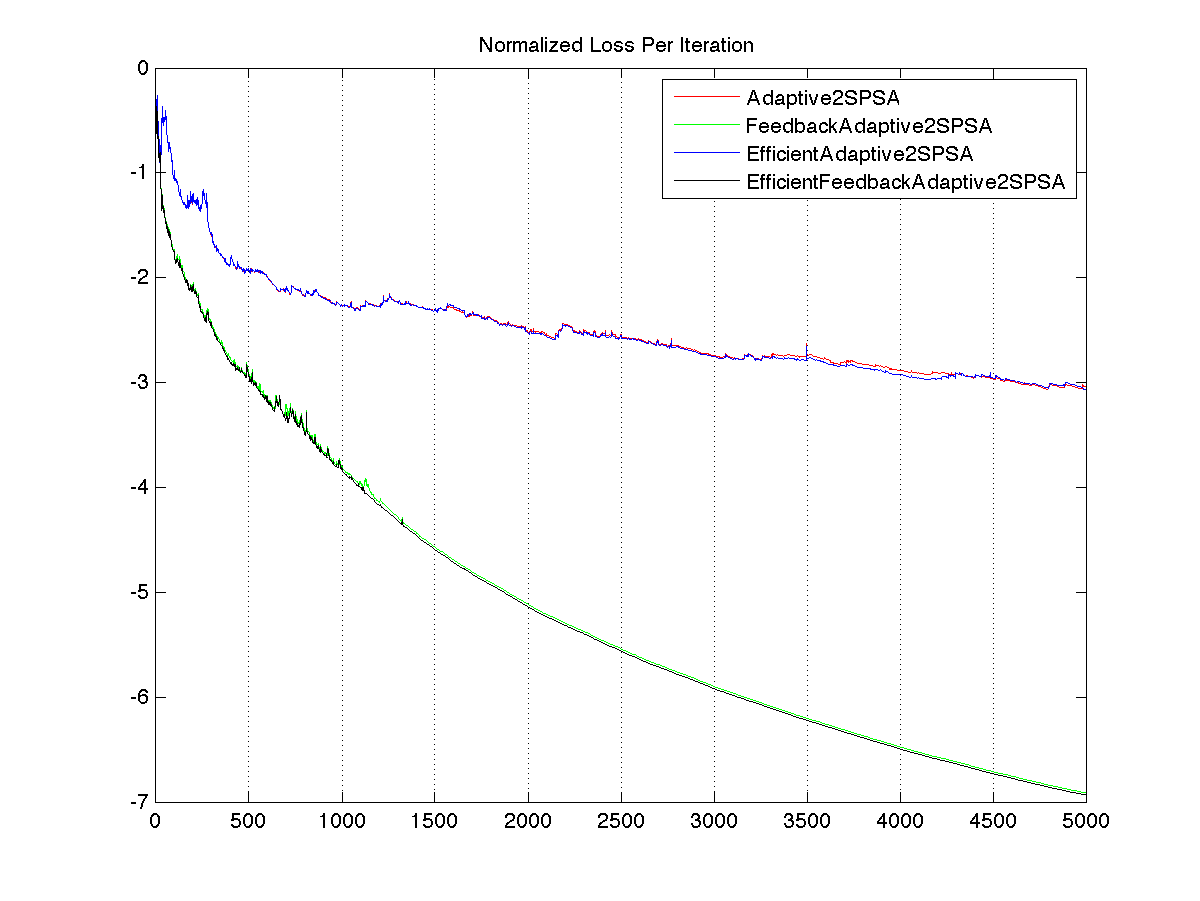
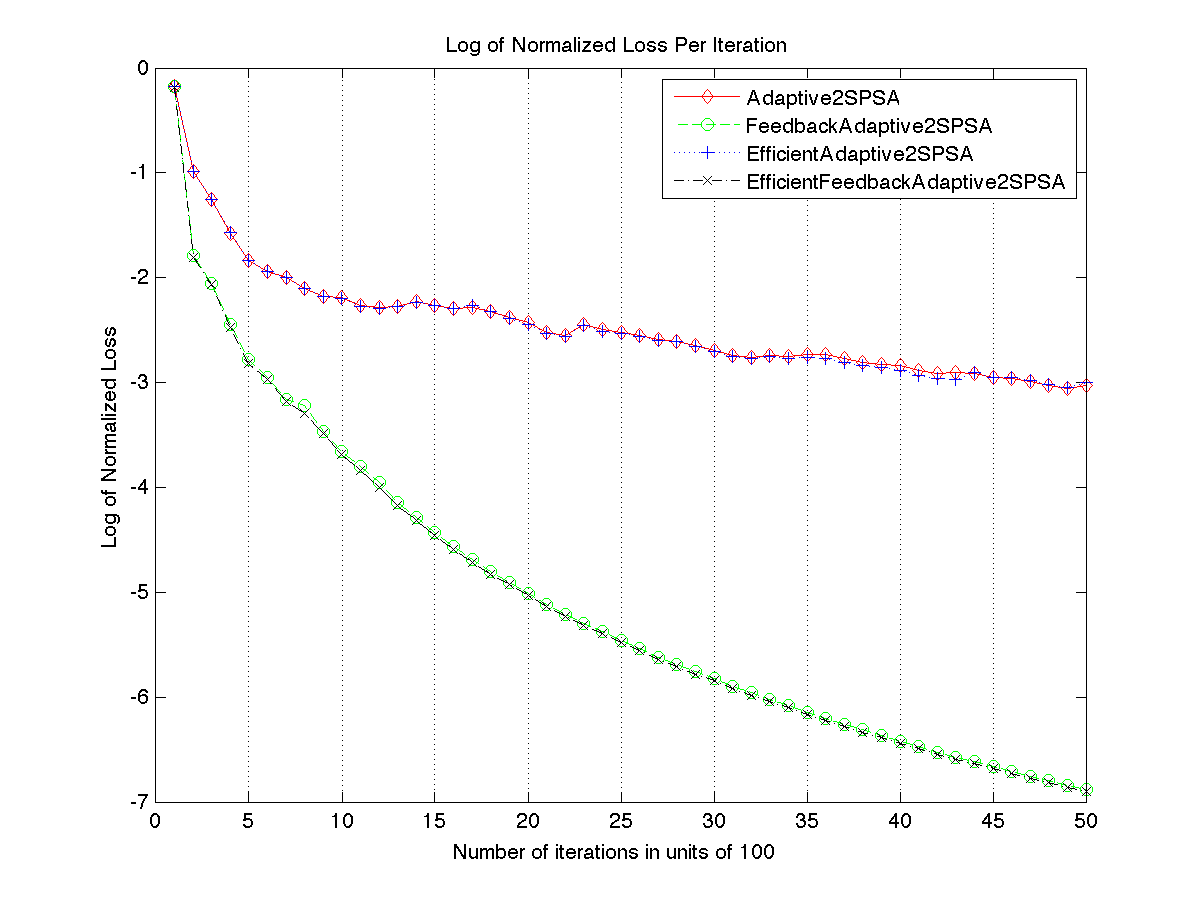
Update plots.

diff --git a/src/analyze_runs.m b/src/analyze_runs.m
@@ -37,7 +37,7 @@ algorithms = {'Adaptive2SPSA', 'FeedbackAdaptive2SPSA','EfficientAdaptive2SPSA',
               'EfficientFeedbackAdaptive2SPSA'};
 % O-red, x-blue, square-green, diamond-black.
 markups = {'or', 'xb', 'sg', 'dk'};
-loss_per_iter_markup = 'rgbk';
+loss_per_iter_markup = {'-rd', '--go', ':b+', '-.kx'};
 for algorithm_idx=1:length(algorithms)
     algorithm = algorithms{algorithm_idx}
     markup = markups{algorithm_idx};
@@ -76,20 +76,30 @@ for algorithm_idx=1:length(algorithms)
     norm_loss_per_iter = mean(lossseq_arr)/loss_init;
     sqdist_per_iter = mean(sqdist_arr)/sqdist_init;
     figure(1); 
-    plot(log(norm_loss_per_iter), loss_per_iter_markup(algorithm_idx)); 
-    title('Normalized Loss Per Iteration');
+    seq = log(norm_loss_per_iter);
+    sample_rate = 100;
+    plot(seq(1:sample_rate:end), loss_per_iter_markup{algorithm_idx}); 
+    title('Log of Normalized Loss Per Iteration');
+    xlabel(['Number of iterations in units of ' num2str(sample_rate)]);
+    ylabel(['Log of Normalized Loss']);
     set(gca(), 'XGrid', 'on');
     hold on;
     
     figure(2);
-    plot(sqrt(sqdist_per_iter), loss_per_iter_markup(algorithm_idx)); 
+    seq = sqrt(sqdist_per_iter);
+    sample_rate = 100;
+    plot(seq(1:sample_rate:end), loss_per_iter_markup{algorithm_idx}); 
     title('Normalized Squared Distance Per Iteration');
+    xlabel(['Number of iterations in units of ' num2str(sample_rate)]);
+    ylabel(['Normalized Squared Distance']);
     set(gca(), 'XGrid', 'on');
     hold on;
     
     figure(3);
-    loglog(1000:length(sqdist_per_iter), sqdist_per_iter(1000:end), ...
-        loss_per_iter_markup(algorithm_idx));
+    seq = 1000:length(sqdist_per_iter);
+    seq2 = sqdist_per_iter(1000:end);
+    loglog( seq(1:100:end), seq2(1:100:end), ...
+        loss_per_iter_markup{algorithm_idx});
     title('LogLog plot of Asymptotic convergence');
     grid minor;
     hold on;
